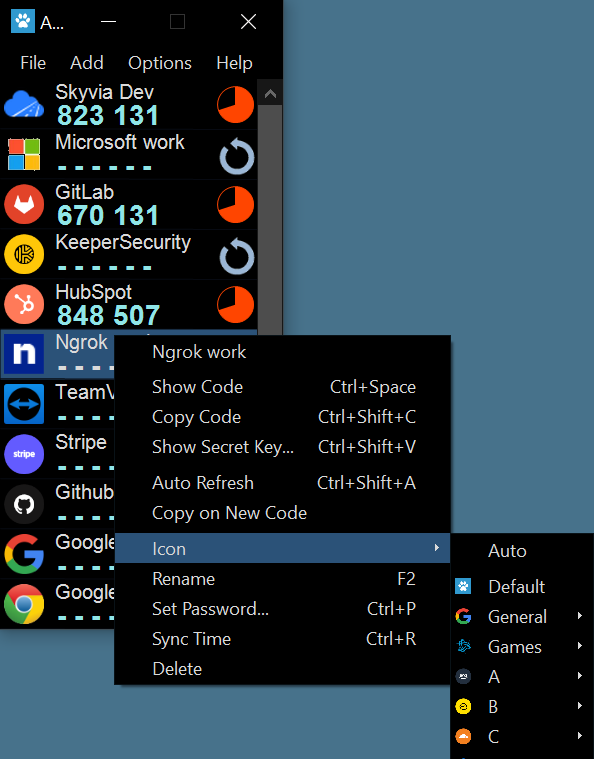
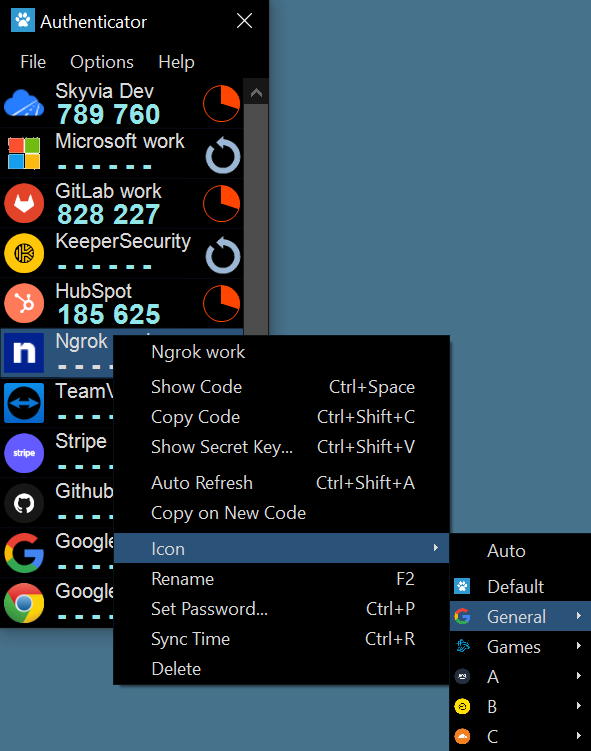
move "Add" menu item to "File" section

Changed region(s): [[0.0, 0.0, 1.0, 1.0], [0.5178, 0.49, 0.7005, 0.6738]]

diff --git a/Authenticator/MainForm.Designer.cs b/Authenticator/MainForm.Designer.cs
@@ -34,7 +34,6 @@ namespace Authenticator {
       this.pictureBox1 = new System.Windows.Forms.PictureBox();
       this.mainMenu = new System.Windows.Forms.MenuStrip();
       this.fileToolStripMenuItem = new System.Windows.Forms.ToolStripMenuItem();
-      this.addToolStripMenuItem = new System.Windows.Forms.ToolStripMenuItem();
       this.optionsToolStripMenuItem = new System.Windows.Forms.ToolStripMenuItem();
       this.helpToolStripMenuItem = new System.Windows.Forms.ToolStripMenuItem();
       this.authenticatorMenu.SuspendLayout();
@@ -181,7 +180,6 @@ namespace Authenticator {
       this.mainMenu.BackColor = System.Drawing.SystemColors.Window;
       this.mainMenu.Items.AddRange(new System.Windows.Forms.ToolStripItem[] {
             this.fileToolStripMenuItem,
-            this.addToolStripMenuItem,
             this.optionsToolStripMenuItem,
             this.helpToolStripMenuItem});
       this.mainMenu.Location = new System.Drawing.Point(0, 0);
@@ -195,12 +193,6 @@ namespace Authenticator {
       this.fileToolStripMenuItem.Name = "fileToolStripMenuItem";
       this.fileToolStripMenuItem.Size = new System.Drawing.Size(37, 20);
       this.fileToolStripMenuItem.Text = "File";
-      // 
-      // addToolStripMenuItem
-      // 
-      this.addToolStripMenuItem.Name = "addToolStripMenuItem";
-      this.addToolStripMenuItem.Size = new System.Drawing.Size(41, 20);
-      this.addToolStripMenuItem.Text = "Add";
       // 
       // optionsToolStripMenuItem
       // 
@@ -227,6 +219,7 @@ namespace Authenticator {
       this.FormBorderStyle = System.Windows.Forms.FormBorderStyle.FixedSingle;
       this.MainMenuStrip = this.mainMenu;
       this.MaximizeBox = false;
+      this.MinimizeBox = false;
       this.Name = "MainForm";
       this.StartPosition = System.Windows.Forms.FormStartPosition.CenterScreen;
       this.Text = "Authenticator";
@@ -263,7 +256,6 @@ namespace Authenticator {
     private System.Windows.Forms.PictureBox pictureBox1;
     private MenuStrip mainMenu;
     private ToolStripMenuItem fileToolStripMenuItem;
-    private ToolStripMenuItem addToolStripMenuItem;
     private ToolStripMenuItem optionsToolStripMenuItem;
     private ToolStripMenuItem helpToolStripMenuItem;
   }

diff --git a/Authenticator/MainForm.cs b/Authenticator/MainForm.cs
@@ -19,6 +19,7 @@ namespace Authenticator {
 
     public AuthConfig Config { get; set; }
 
+    private ToolStripMenuItem addToolStripMenuItem;
     private ToolStripMenuItem themeMenuItem;
     private ToolStripMenuItem importMenuItem;
     private readonly Timer passwordTimer;
@@ -968,6 +969,8 @@ namespace Authenticator {
 #endif
 
       //File section
+      addToolStripMenuItem = AuthHelper.AddMenuItem(fileToolStripMenuItem.DropDownItems, "Add");
+      AuthHelper.AddMenuItem(fileToolStripMenuItem.DropDownItems);
       AuthHelper.AddMenuItem(fileToolStripMenuItem.DropDownItems, "Export", "exportOptionsMenuItem", exportOptionsMenuItem_Click, Keys.Control | Keys.E);
       importMenuItem = AuthHelper.AddMenuItem(fileToolStripMenuItem.DropDownItems, "Import", onClick: importTextMenu_Click, shortcut: Keys.Control | Keys.I);
 
